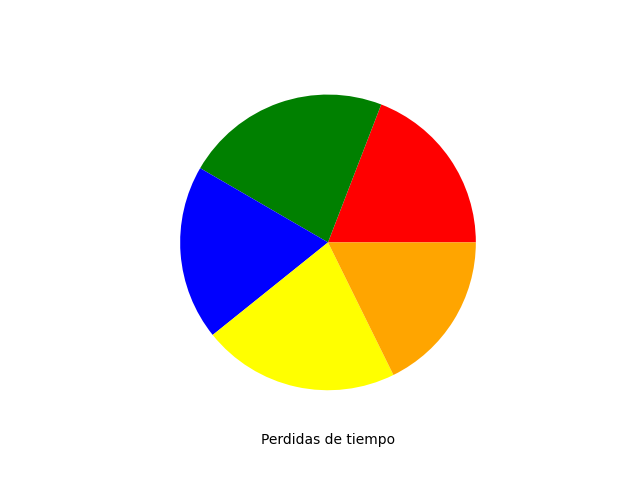
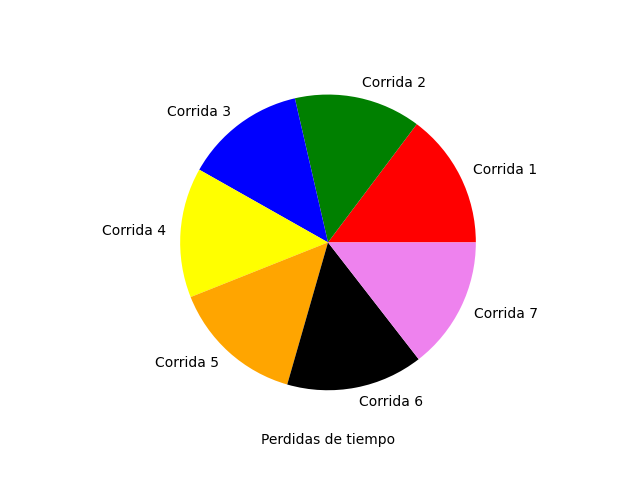
comiteando todo

diff --git a/tpFinal/partido.py b/tpFinal/partido.py
@@ -1,23 +1,25 @@
 
-from random import random, sample
+from random import choice, sample,random, randint
 import numpy as np
-# Se puede cambiar
 
 PORCENTAJE = 0.45
 cantidadDeArrivoHinchas = 10
 cantidadDePartidaDeHinchas = 20
 tiempoTotal= 90
+
 adicion = 0
 
 cantidadDeCambios=0
-laterales = 0.2
+
+laterales = 0.5
 cambio= 0.07
 lesion =0.03
 penal =0.02
 ingresoHincha= 0.008 
 perro = 0.003
-falta = 0.2
+falta = 0.5
 gol = 0.04
+
 
 
 class Partido(object):
@@ -29,80 +31,107 @@ class Partido(object):
         self.cantidadHinchas = 0
         self.eventos = {}
         self.tiempoPerdido = 0
+        #self.tiempoPerdido = {}
         self.estadisticas= {}
         self.reloj=0
-        
-        #self.estado = ("detenido"|"enJuego")
+
     def agregarEvento(self, tiempo,evento):
         self.eventos.update({tiempo:evento})
 
     def verEvento (self):
-        listaPosiblesEventos= []
+        listaPosiblesEventos= {}
         pgol =np.random.uniform(0.0,1.0)
         pCambio = np.random.uniform(0.0,1.0) 
         pFalta= np.random.uniform(0.0,1.0)
         pPenal = np.random.uniform(0.0,1.0)
         pLaterales = np.random.uniform(0.0,1.0)
         pLesion = np.random.uniform(0.0,1.0)
-
         #Probabilidad de que ocurra un gol
+
         if (pgol <= gol):
-            np.random.uniform(10,60)
-            listaPosiblesEventos.append('GOL')
-        # Probabilidad de Cambios
+            #self.tiempoPerdido.update({'GOL':np.random.uniform(10,60)})
+            tiempoPerdido = np.random.uniform(10,60)
+            #listaPosiblesEventos.append('GOL')
+            listaPosiblesEventos.update({'GOL':tiempoPerdido})
+            # Probabilidad de Cambios
         if (pCambio <= cambio)and(cantidadDeCambios < 6):
-            tiempo = np.random.uniform(10,45)
-            listaPosiblesEventos.append('CAMBIO')
+            tiempoPerdido = np.random.uniform(10,45)
+            listaPosiblesEventos.update({'CAMBIO':tiempoPerdido})
+            #listaPosiblesEventos.append('CAMBIO')
         # Probabilidad de Faltas cometidas
         if (pFalta <= falta):
-            tiempo = np.random.uniform(5,60)
-            listaPosiblesEventos.append('FALTA')            
+            tiempoPerdido= np.random.uniform(5,60)
+            listaPosiblesEventos.update({'FALTA':tiempoPerdido})
+            #listaPosiblesEventos.append('FALTA')            
         # Probabilidad de Penales
         if (pPenal <= penal):
-            tiempo = np.random.uniform(45,240)
-            listaPosiblesEventos.append('PENAL')            
+            tiempoPerdido = np.random.uniform(45,240)
+            listaPosiblesEventos.update({'PENAL':tiempoPerdido})
+            #listaPosiblesEventos.append('PENAL')            
         if (pLaterales <= laterales):
-            tiempo = np.random.uniform(5,45)
-            listaPosiblesEventos.append('LATERAL')
+            tiempoPerdido = np.random.uniform(5,45)
+            listaPosiblesEventos.update({'LATERAL':tiempoPerdido})
+            #listaPosiblesEventos.append('LATERAL')
         if (pLesion <= lesion):
-            tiempo = np.random.uniform(60,240)
-            listaPosiblesEventos.append('LESION')            
-        if listaPosiblesEventos == []:
-            tiempo = np.random.uniform(5,45)
-            listaPosiblesEventos.append('LATERAL')
-        return listaPosiblesEventos
+            tiempoPerdido = np.random.uniform(60,240)
+            listaPosiblesEventos.update({'LESION':tiempoPerdido})
+            #listaPosiblesEventos.append('LESION')            
+        if len(listaPosiblesEventos) == 0:
+            tiempoPerdido = np.random.uniform(5,45)
+            listaPosiblesEventos.update({'NADA':tiempoPerdido})
+            #listaPosiblesEventos.append('NADA')
+        elegido = choice(tuple(listaPosiblesEventos.keys()))
+        return  elegido,listaPosiblesEventos[elegido]
+
+
+    def crearFell(self,eventosPosibles):
+        fell = {}
+         # eventosPosibles= [# 'CAMBIOS',
+        # 'FALTA',
+        # 'LATERAL',
+        # 'ARRIVO',
+        # 'PARTIDA'
+        # 'LESIONADO'
+        # 'NADA',]
+        cont = 0
+        print("CREANDO FELL")
+        while cont < 120:
+            fell.update({cont:self.verEvento()})
+            #fell.update({cont:(sample(eventosPosibles,k=1))})
+            cont+=1  
+        return fell
 
     def crearFell(self):
-        eventosPosibles= ['GOL', 
-        'CAMBIOS',
-        'FALTA',
-        'LATERAL',
-        'ARRIVO',
-        'PARTIDA'
-        'LESIONADO'
-        'NADA',]
+        # eventosPosibles= ['GOL', 
+        # 'CAMBIOS',
+        # 'FALTA',
+        # 'LATERAL',
+        # 'ARRIVO',
+        # 'PARTIDA'
+        # 'LESIONADO'
+        # 'NADA',]
 
         eventosPosibles2 = [
             'INTERRUPCION',
             'ARRIVOS',
             'FNC' #FALTAS NO COBRADAS
         ]
-        #evento con probabilidad de ocurrencia
-        dicEventos = {
-            'GOL': 0.5,
-            'CAMBIOS':0.3, 
-            'FALTA':0.8,
-            'LATERAL':0.75,
-            'ARRIVO':0.60,
-            'PARTIDA':0.4,
-            'NADA':0.90,
-            'LESIONADO':0.14,  
-        }
-
-        fell = {}
-        cont = 0
+        # #evento con probabilidad de ocurrencia
+        # dicEventos = {
+        #     'GOL': 0.5,
+        #     'CAMBIOS':0.3, 
+        #     'FALTA':0.8,
+        #     'LATERAL':0.75,
+        #     'ARRIVO':0.60,
+        #     'PARTIDA':0.4,
+        #     'NADA':0.90,
+        #     'LESIONADO':0.14,  
+        # }
+        fell = {0:['REANUDACION']}
+        cont = 1
         print("CREANDO FELL")
-        while cont < 120:
+        while cont < 5900:
+            #fell.update({cont:self.verEvento()})
             fell.update({cont:(sample(eventosPosibles2,k=1))})
             cont+=1  
         return fell

diff --git a/tpFinal/simulacion.py b/tpFinal/simulacion.py
@@ -1,30 +1,74 @@
 from random import random, sample
 import random
 import numpy as np
-
-
 from estadio import Estadio
 from partido import Partido
 from tpFinal import inicializador
 
+listaDeUsuario= ['GOL','REANUDACION']
 # Se puede cambiar
-
 class Simulacion(object):
     def __init__(self):
         self.estadisticas = {}
         self.cantidadCorridas=0
+        self.contadores= {}
+        self.eventosPosibles = {}
         #self.reloj
+
+    
+    def atenderEvento(self,partido,evento):
+        if evento == 'INTERRUPCION':
+            #interrup = interrup + 1
+            print("*******INTERRUPCION**************")
+            #Veo que evento puede ser
+            #eventosPosibles= partido.verEvento()
+            #partido.revisarTipoEvento()
+            tiempoPerdido = random.randint(1, 4)
+            #self.tiempoInterrupciones.update({eventosPosibles[0] : tiempoPerdido})
+            partido.tiempoPerdido = tiempoPerdido + partido.tiempoPerdido
+            partido.eventos[reloj+tiempoPerdido] = 'REANUDACION'
+            reloj= reloj + tiempoPerdido -1
+        elif evento=='REANUDACION':
+            reanudacion =+1
+            print("**********REANUDACION***********")
+            reloj= reloj +1
+        elif evento=='ARRIVOS':
+            arrivos +=1
+            print("**********ARRIVOS***********")
+            if partido.cantidadHinchas <= partido.estadio.capacidad:
+                partido.cantidadHinchas += cantidadDeArrivoHinchas
+                #print('Entraron Hinchas, ahora son: %i de %i ',partido.cantidadHinchas,partido.estadio.capacidad)
+            else:
+            #print("me quedan %s hinchas de %s",partido.cantidadHinchas,partido.estadio.capacidad)
+            #Crear un evento de Interrupcion para esperar que se complete el aforo
+                pass
+        elif evento == 'FNC': #FALTAS NO    COBRADAS
+            fnc =+1
+            print("**********FALTA NO COBRADA***********")
+        if random.randint(0,3) == 3:
+            partido.cantidadHinchas = partido.cantidadHinchas - cantidadDePartidaDeHinchas
+            #print("se fueron hinchas ahora quedan: ", partido.cantidadHinchas)
+        if not partido.estadio.cumpleAforo(partido.cantidadHinchas):
+            pass
+        #partido.crearEventos(reloj,'NOCUMPLEAFORO')
+        #crear un evento de interrucion por arrivo de hinchas.
+        #print(reloj)
+
+        pass
+        
     def simular(self,cantidadCorridas,aforo,eventosPosibles):
         pass
+
     def simular(self):
         tiempoInterrupciones = {}
-        tiempoTotal= 90
+        tiempoTotal= 5400 # 90 minutos en segundos
         adicion=0
         cantidadDeArrivoHinchas=15
         cantidadDePartidaDeHinchas = 30
         simulacion = Simulacion()
-        CORRIDAS = 5
+        CORRIDAS = 7
         corrida = 1
+        tiempoEfectivo=0
         estadisticasCorridas = {}
         while corrida <= CORRIDAS:
             tiempoInterrupciones = {}
@@ -38,29 +82,36 @@ class Simulacion(object):
             reanudacion=0
             arrivos=0
             partido.eventos = partido.inicializar()
-            
             #print(partido.eventos)
             print(partido.eventos)
             while (reloj <= tiempoTotal + adicion):
+                print("reloj: ",reloj)
                 evento = partido.eventos[reloj]
+                print(evento)
                 evento = evento[0]
+                if listaDeUsuario.index("GOL")is None:
+                    print("Entro hay gol")
                 if evento == 'INTERRUPCION':
                     interrup = interrup + 1
                     print("*******INTERRUPCION**************")
                     eventosPosibles= partido.verEvento()
+                    print("eventos posibles",eventosPosibles)
                     #partido.revisarTipoEvento()
-                    tiempoPerdido = random.randint(1,4)
-                    tiempoInterrupciones.update({eventosPosibles[0] : tiempoPerdido})
+                    tiempoPerdido = int(eventosPosibles[1])
+                    #tiempoInterrupciones.update({eventosPosibles[0] : tiempoPerdido})
                     partido.tiempoPerdido = tiempoPerdido + partido.tiempoPerdido
-                    partido.eventos[reloj+tiempoPerdido] = 'REAUDACION'
+                    
+                    partido.eventos[reloj+tiempoPerdido] = ['REANUDACION']
                     reloj= reloj + tiempoPerdido -1
                 elif evento=='REANUDACION':
-                    reanudacion =+1
                     print("**********REANUDACION***********")
-                    #print("Estoy en reanudacion")
-                    #print("despues de la interrupcion deberia valer: ")
-                    pass
-                    reloj= reloj +1
+                    reanudacion =+1
+                    tiempo = random.randint(10, 40)
+                    print("Tiempo: ", tiempo)
+                    tiempoEfectivo = tiempoEfectivo + tiempo 
+                    reloj= reloj + tiempo -1
+                if listaDeUsuario.index("REANUDACION")is None:
+                    print("Entro hay gol abajos")
                 elif evento=='ARRIVOS':
                     arrivos +=1
                     print("**********ARRIVOS***********")

diff --git a/tpFinal/pruebas.py b/tpFinal/pruebas.py
@@ -4,10 +4,6 @@ import matplotlib.pyplot as plt
 
 sim = Simulacion()
 tiempos=sim.simular()
-# print(tiempos[1])
-# print(tiempos)
-#print(tiempos[1])
-
 
 data = pd.DataFrame(tiempos[1],index=tiempos[0].keys(), columns= tiempos[1].keys())
 print("Tiempos perdidos:",tiempos[0]["TIEMPO PERDIDO"])
@@ -17,24 +13,10 @@ for key in tiempos[1]:
         if key2 == 'TIEMPO PERDIDO':
             datos.append(tiempos[1][key][key2])
 print(datos)
-# data = pd.DataFrame({col1:list1,col2:list2})
-
-# data.to_excel('sample_data.xlsx', sheet_name='sheet1', index=False)
-
 data.to_excel('sample_data.xlsx', sheet_name='sheet1',index="algo")
 
-#inicializador()
-
-
-
-
-
-#df = pd.read_excel("sample_data.xlsx")
-#print(df)
-#tab = pd.crosstab(index=df.index,columns=df.columns)
-#print(tab)
-colores = ['red','green','blue','yellow','orange']
-plt.pie(datos,colors=colores) 
+colores = ['red','green','blue','yellow','orange','black','violet','lightblue','pink']
+plt.pie(datos,colors=colores,labels=tiempos[1].keys()) 
 plt.xlabel("Perdidas de tiempo")
 plt.savefig("tiemposPerdidos.png")
 plt.show()

diff --git a/tpFinal/app.py b/tpFinal/app.py
@@ -10,11 +10,16 @@ def inicio():
 
 @app.route('/procesar', methods=['POST'])
 def procesar():
+    eventosPosibles = []
     nombre = request.form.get("nombre")
+    #eventosPosibles.apend(request.form.get("nombre"))
     edad = request.form.get("edad")
+    #eventosPosibles.apend(request.form.get("edad"))
     faltas= request.form.get("faltas")
-    laterales= request.form.get("laterales")    
-    #simulacion = Simulacion()
+    #eventosPosibles.apend(request.form.get("faltas"))
+    laterales= request.form.get("laterales")
+    #eventosPosibles.apend(request.form.get("laterales"))    
+    #simulacion = Simulacion(eventosPosibles)
     return render_template("index.html", nombre=nombre, edad=edad,faltas=faltas,laterales=laterales)
 
 @app.route('/query-example')

diff --git a/tpFinal/estadio.py b/tpFinal/estadio.py
@@ -3,6 +3,7 @@ from random import random, sample
 import random
 import numpy as np
 PORCENTAJE= 0.45
+
 class Estadio(object):
     def __init__(self,nombre):
         self.nombre = nombre
@@ -12,9 +13,7 @@ class Estadio(object):
     
     def cumpleAforo(self, cantidadHinchas):
         return (self.capacidadMinima <= cantidadHinchas)
-
-      
-
+    
     def __str__(self):
         return "Estadio: %s Capacidad: %s Capacidad Minima: %s Cantidad de Accesos: %s" % (self.nombre, self.capacidad,self.capacidadMinima, self.cantidadAcceso)
     
